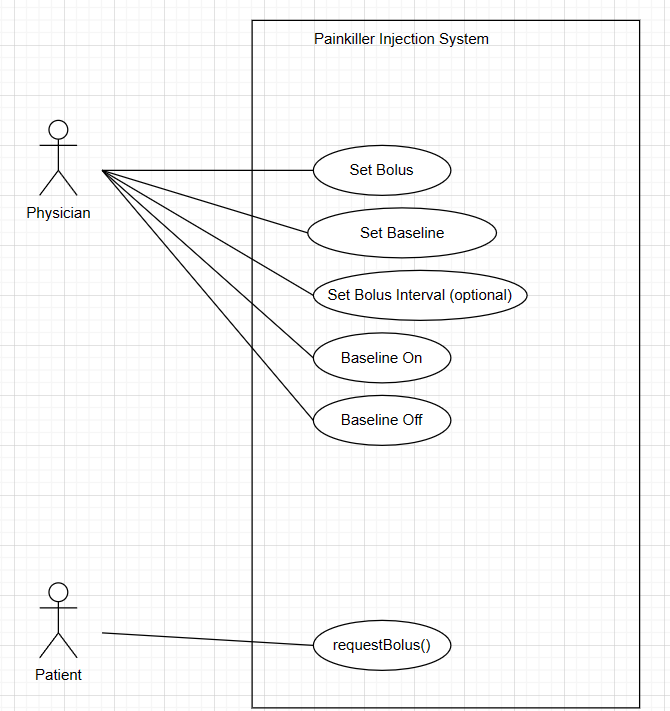
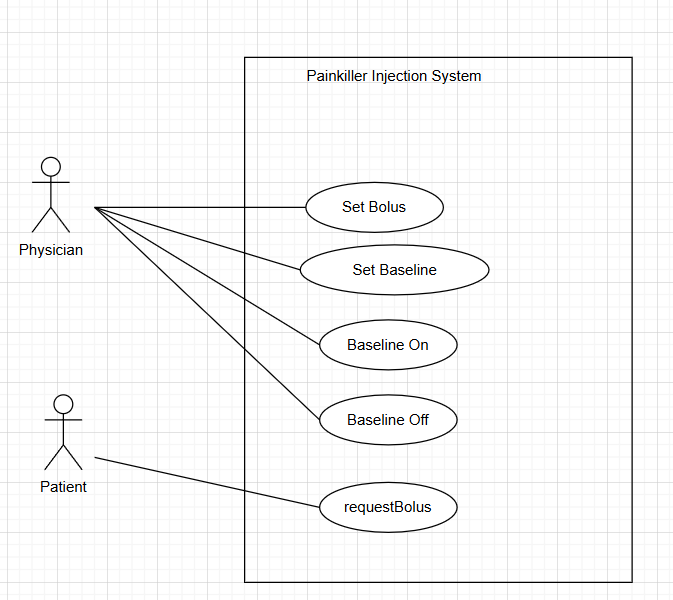
update Requirement

diff --git a/Requirement/Requirement.md b/Requirement/Requirement.md
@@ -17,3 +17,35 @@
     - log in
     - start button
     - interrupt button
+
+## Domain Analysis
+The participants are one patient, one doctor and a painkiller injection system.
+
+## System Architechure
+![](ClassDiagram.png)
+## Use case
+![](UseCaseDiagram.png)
+## Requirements
+### R1 Physician UI
+- R1.1 Physician operations
+  - R1.1.1 Physician should be able to set baseline rate
+  - R1.1.2 Physician should be able to set bolus amount
+  - R1.1.3 Physician should be able to turn on baseline injection
+  - R1.1.4 Physician should be able to turn off baseline injection
+- R1.2 Physician view
+  - R1.2.1 Physician should be able to monitor hour and daily injection amount.
+  - R1.2.2 Physician should be able to monitor current baseline, bolus amount
+  - R1.2.3 Physician should be able to monitor current baseline injection mode (on/off)
+### R2 Patient Button
+- R2.1 Patient should be able to press the button to request bolus
+### R3 Injection System Core
+- R3.1 System should validate user operation 
+  - R3.1.1 System should be able to ensure baseline between 0.01-0.1 mL/min
+  - R3.1.2 System should be able to ensure bolus between 0.2-0.5 mL/shot 
+- R3.2 System basic functionality
+  - R3.2.1 System should be able to inject baseline every minute according to baseline set by physician if baseline mode is on.
+  - R3.2.2 System should be able to inject bolus immediately once patient pressed button and that amount is validated.(valid if injecting bolus will not cause total amount to exceed hour limit and day limit)
+  - R3.2.3 System should be able to stop baseline injection automatically if injecting baseline will cause current amount to exceed daily amount or hour amount.
+  - R3.2.4 System should restart baseline injection automatically when injecting baseline will not cause current amount to exceed daily amount or hour amount.
+
+
